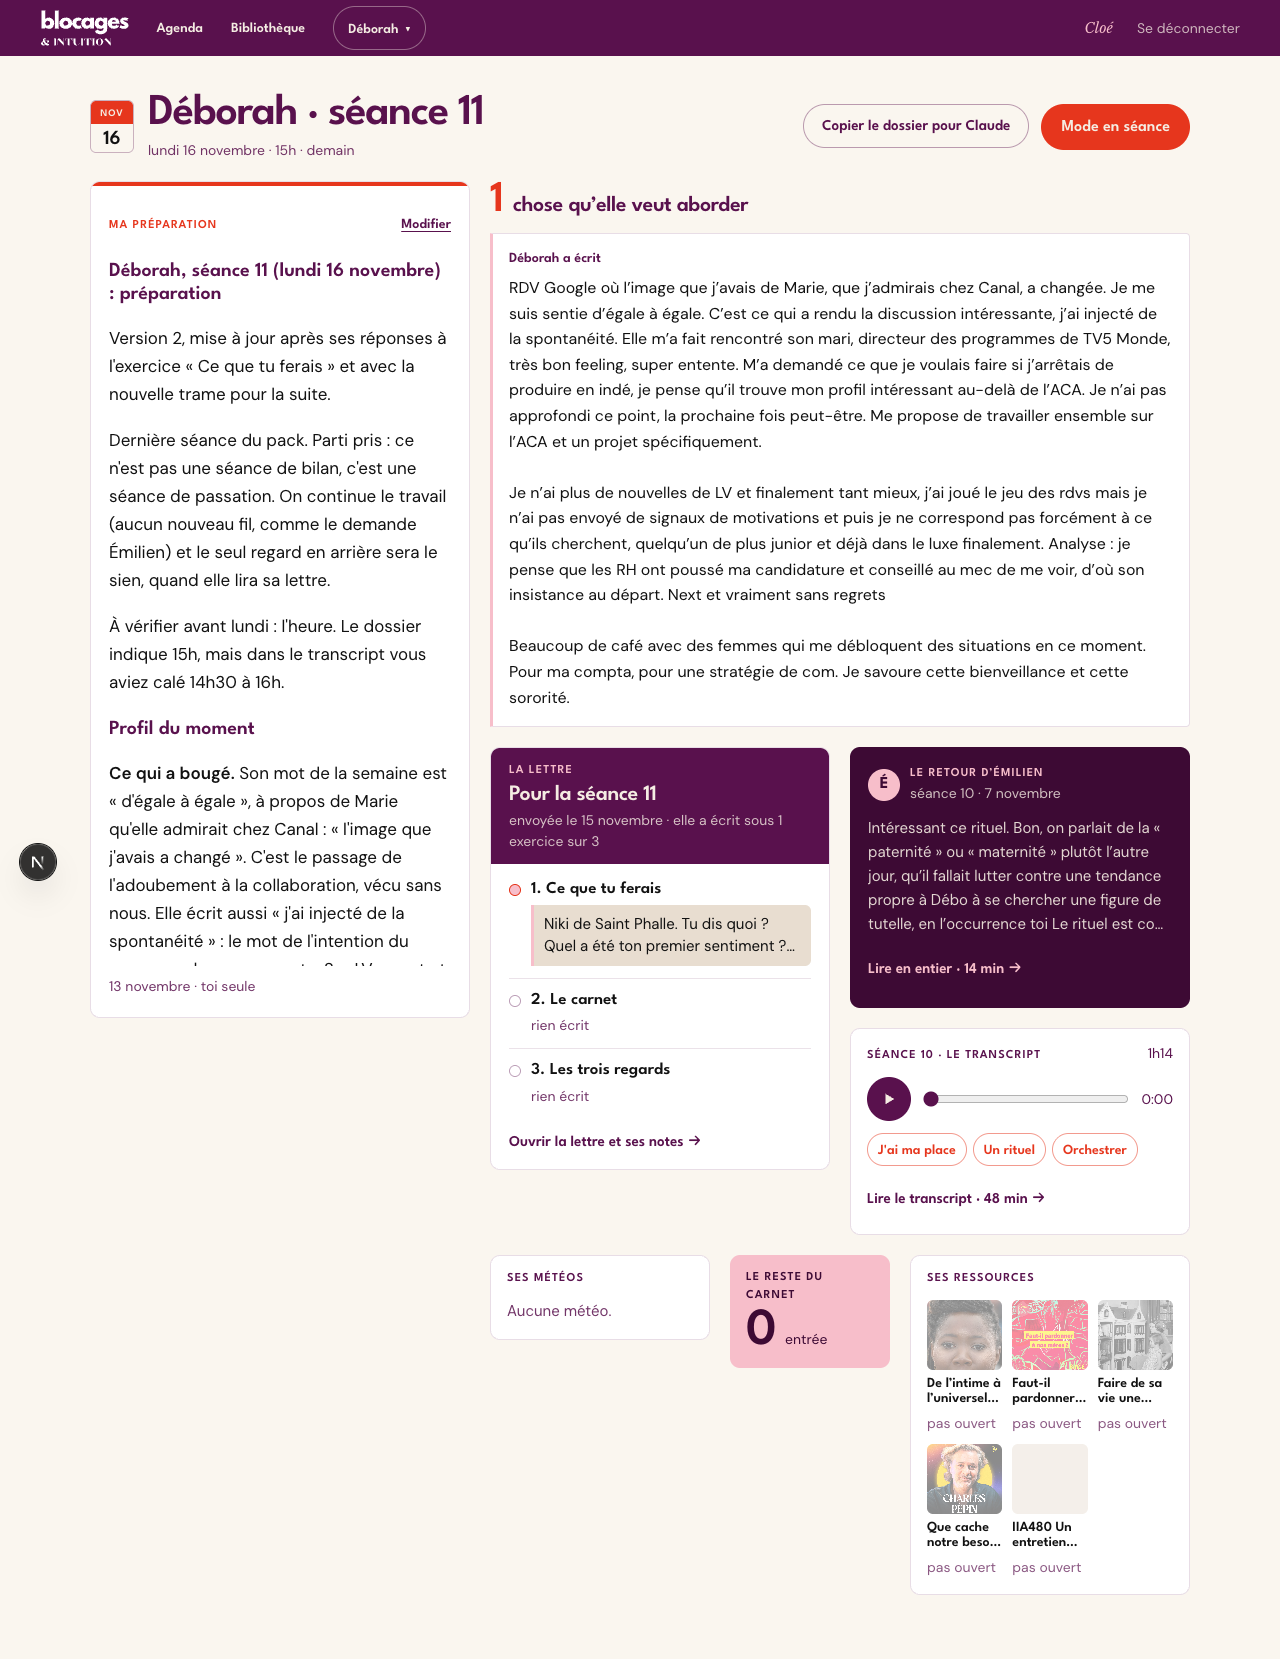
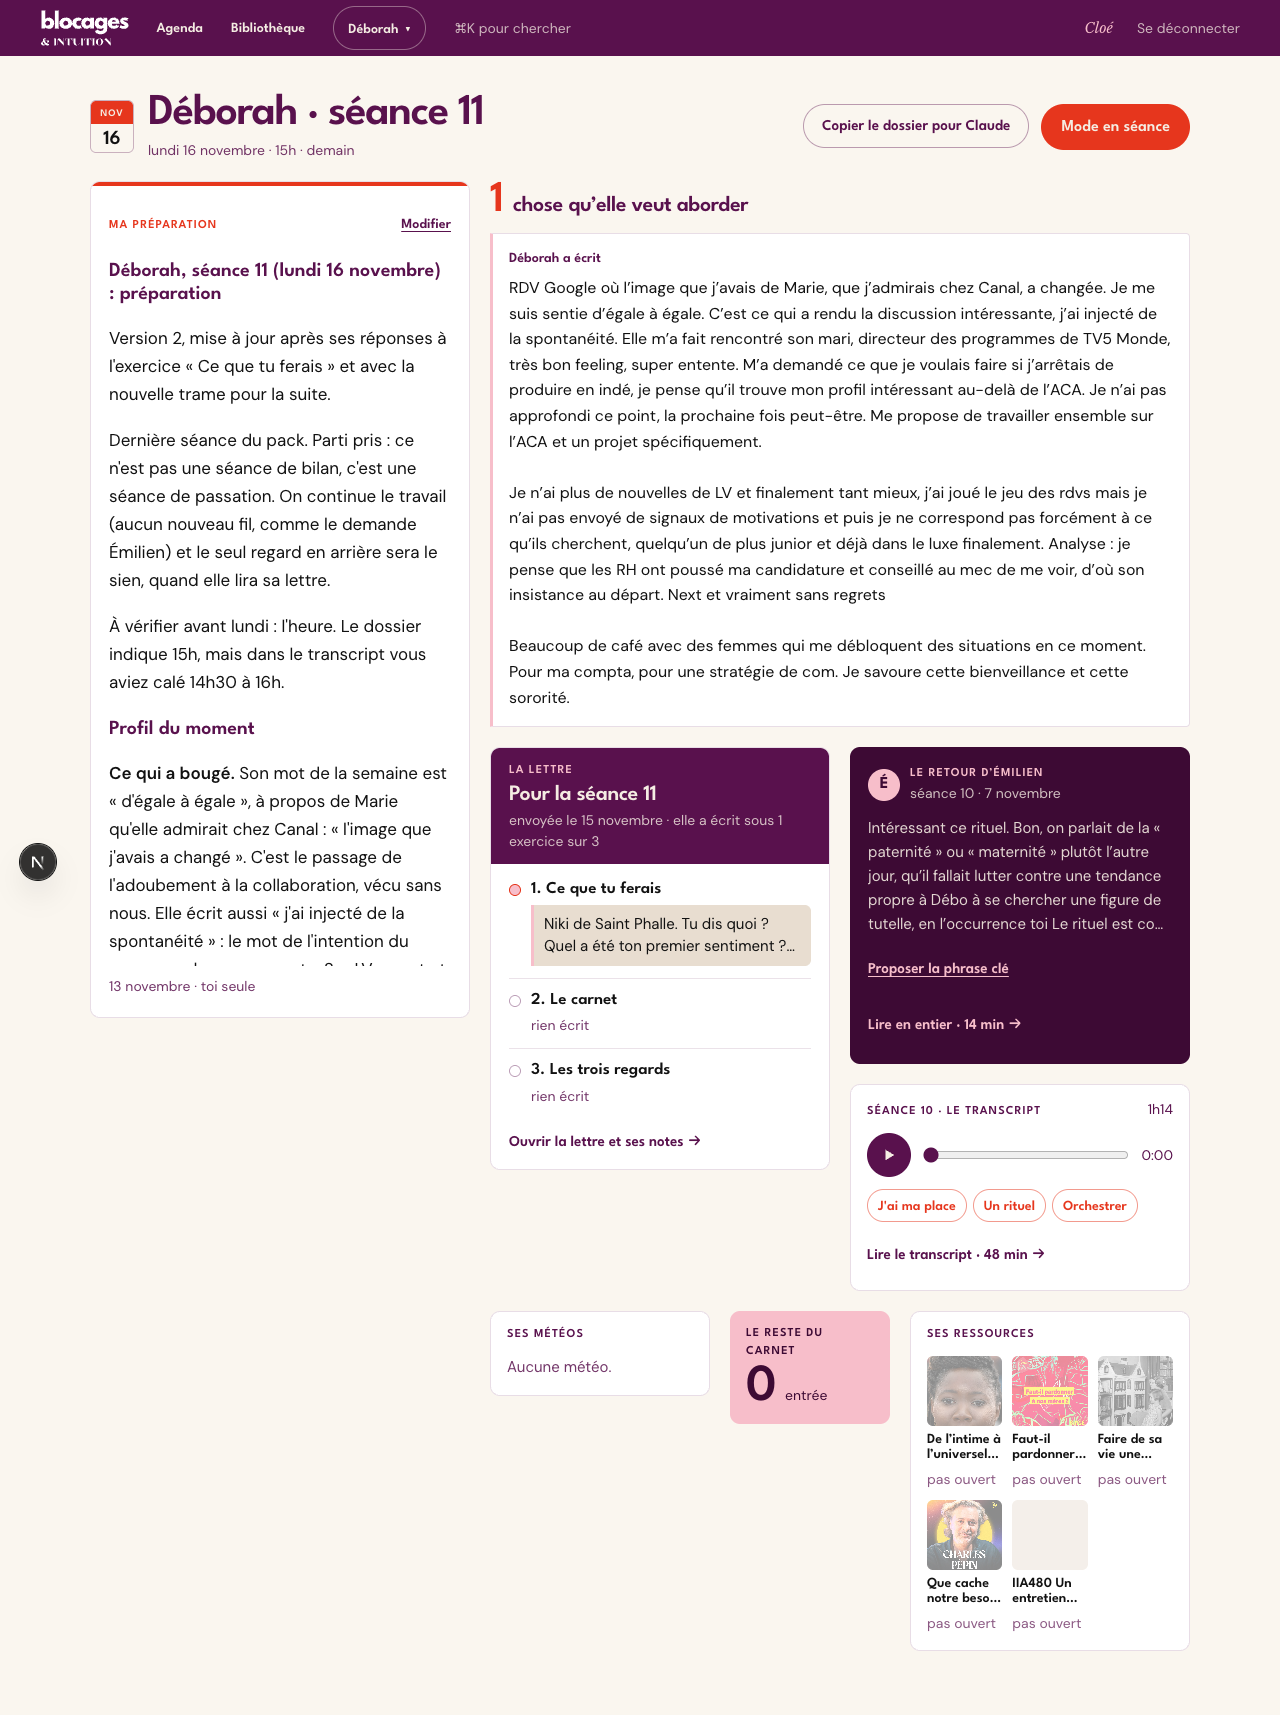
Temps 2, point 10 : bilan de cycle (page et PDF), corrections après captures, état à jour

diff --git a/src/app/(coach)/coach/clientes/[id]/bilan/page.tsx b/src/app/(coach)/coach/clientes/[id]/bilan/page.tsx
@@ -1,0 +1,74 @@
+import { notFound } from "next/navigation";
+import { PageCoach } from "@/components/coach/base";
+import { Barre } from "@/components/coach/Entete";
+import { exigerCoach } from "@/lib/auth";
+import { chargerBilan } from "@/lib/bilan";
+
+export const metadata = { title: "Bilan de cycle" };
+
+// Le bilan de fin de parcours, tel qu'il sera dans le PDF. Rien ne part vers elle : Cloé le télécharge et choisit.
+export default async function Bilan({ params }: PageProps<"/coach/clientes/[id]/bilan">) {
+  await exigerCoach();
+  const { id } = await params;
+  const b = await chargerBilan(id);
+  if (!b) notFound();
+  const stations = b.seances.flatMap((x) => (x.station ? [x.station] : []));
+  return (
+    <PageCoach>
+      <Barre retour={{ href: `/coach/clientes/${id}`, libelle: b.prenom }} cliente={b.prenom} />
+      <div className="mx-auto flex w-full max-w-3xl flex-col gap-5 px-[22px] pb-16 pt-7">
+        <div className="flex flex-wrap items-center justify-between gap-3">
+          <p className="m-0 text-[14px] text-violet">Rien ne part vers {b.prenom} : tu télécharges le PDF et tu choisis quand le lui donner.</p>
+          <a href={`/api/bilan/${id}`} className="bouton-rouge inline-flex items-center">
+            Télécharger le PDF
+          </a>
+        </div>
+        <article className="carte-blanche flex flex-col gap-4 px-6 py-7 md:px-10">
+          {b.periode ? <p className="m-0 font-italique text-[15px] italic text-violet">{b.periode}</p> : null}
+          <h1 className="m-0 font-titre text-[34px] font-semibold leading-none tracking-[-0.03em] text-violet">
+            {b.prenom}, {b.seances.length} séance{b.seances.length > 1 ? "s" : ""}
+          </h1>
+          {stations.length ? <p className="m-0 font-titre text-[17px] font-semibold text-rouge">{stations.join(" · ")}</p> : null}
+          {b.intention ? (
+            <section className="flex flex-col gap-1.5">
+              <h2 className="m-0 font-titre text-[20px] font-semibold text-violet">L’intention du départ</h2>
+              <p className="m-0 text-[16px] leading-[1.6]">{b.intention}</p>
+            </section>
+          ) : null}
+          <section className="flex flex-col gap-1.5">
+            <h2 className="m-0 font-titre text-[20px] font-semibold text-violet">Le chemin, séance après séance</h2>
+            {b.seances.map((x) => (
+              <p key={x.numero} className="m-0 text-[16px] leading-[1.6]">
+                <strong className="font-semibold">Séance {x.numero}</strong>
+                {x.date ? `, ${x.date}` : ""} : {x.mots.length ? x.mots.join(", ") : "sans mots posés"}
+                {x.station ? `. ${x.station}` : ""}
+              </p>
+            ))}
+          </section>
+          {b.lettres.length ? (
+            <section className="flex flex-col gap-1">
+              <h2 className="m-0 font-titre text-[20px] font-semibold text-violet">Les lettres</h2>
+              {b.lettres.map((l, i) => (
+                <p key={i} className="m-0 text-[16px]">
+                  {l.titre}
+                  {l.date ? <span className="text-violet">, {l.date}</span> : null}
+                </p>
+              ))}
+            </section>
+          ) : null}
+          {b.paroles.length ? (
+            <section className="flex flex-col gap-2">
+              <h2 className="m-0 font-titre text-[20px] font-semibold text-violet">Ce que tu as écrit</h2>
+              {b.paroles.map((p, i) => (
+                <div key={i} className="border-l-[3px] border-rose pl-3">
+                  {p.date ? <p className="m-0 text-[14px] text-violet">{p.date}</p> : null}
+                  <p className="m-0 whitespace-pre-line text-[16px] leading-[1.6]">{p.texte}</p>
+                </div>
+              ))}
+            </section>
+          ) : null}
+        </article>
+      </div>
+    </PageCoach>
+  );
+}

diff --git a/src/lib/bilan-pdf.tsx b/src/lib/bilan-pdf.tsx
@@ -1,0 +1,83 @@
+import path from "node:path";
+import { Document, Font, Page, renderToBuffer, StyleSheet, Text, View } from "@react-pdf/renderer";
+import type { Bilan } from "@/lib/bilan";
+
+// Le bilan en PDF : ivoire et Lora, comme le transcript et les notes d'Émilien.
+const fichier = (nom: string) => path.join(process.cwd(), "node_modules/@fontsource/lora/files", nom);
+Font.register({
+  family: "Lora",
+  fonts: [
+    { src: fichier("lora-latin-400-normal.woff") },
+    { src: fichier("lora-latin-400-italic.woff"), fontStyle: "italic" },
+    { src: fichier("lora-latin-600-normal.woff"), fontWeight: 600 },
+  ],
+});
+Font.registerHyphenationCallback((mot) => [mot]);
+
+const VIOLET = "#59114D";
+const ROUGE = "#E6361D";
+const s = StyleSheet.create({
+  page: { backgroundColor: "#FAF6EF", color: "#111111", fontFamily: "Lora", fontSize: 11, lineHeight: 1.6, paddingTop: 64, paddingBottom: 64, paddingHorizontal: 70 },
+  marque: { fontSize: 9, fontStyle: "italic", color: VIOLET, marginBottom: 26 },
+  periode: { fontSize: 11, fontStyle: "italic", color: VIOLET },
+  titre: { fontSize: 28, fontWeight: 600, lineHeight: 1.1, color: VIOLET, marginTop: 4 },
+  mots: { fontSize: 12, color: ROUGE, marginTop: 10, marginBottom: 26 },
+  section: { fontSize: 14, fontWeight: 600, color: VIOLET, marginTop: 22, marginBottom: 8 },
+  ligne: { marginBottom: 6 },
+  parole: { marginBottom: 10, paddingLeft: 10, borderLeftWidth: 2, borderLeftColor: "#F7BECA" },
+  date: { fontSize: 9, fontStyle: "italic", color: VIOLET },
+  numero: { position: "absolute", bottom: 32, left: 0, right: 0, textAlign: "center", fontSize: 8.5 },
+});
+
+export async function creerPdfBilan(b: Bilan) {
+  const stations = b.seances.flatMap((x) => (x.station ? [x.station] : []));
+  return renderToBuffer(
+    <Document title={`${b.prenom}, bilan de parcours`} author="Blocages & Intuition" language="fr">
+      <Page size="A4" style={s.page}>
+        <Text style={s.marque}>Blocages &amp; Intuition</Text>
+        {b.periode ? <Text style={s.periode}>{b.periode}</Text> : null}
+        <Text style={s.titre}>
+          {b.prenom}, {b.seances.length} séance{b.seances.length > 1 ? "s" : ""}
+        </Text>
+        {stations.length ? <Text style={s.mots}>{stations.join(" · ")}</Text> : null}
+        {b.intention ? (
+          <>
+            <Text style={s.section}>L’intention du départ</Text>
+            <Text>{b.intention}</Text>
+          </>
+        ) : null}
+        <Text style={s.section}>Le chemin, séance après séance</Text>
+        {b.seances.map((x) => (
+          <Text key={x.numero} style={s.ligne}>
+            Séance {x.numero}
+            {x.date ? `, ${x.date}` : ""} : {x.mots.length ? x.mots.join(", ") : "sans mots posés"}
+            {x.station ? `. ${x.station}` : ""}
+          </Text>
+        ))}
+        {b.lettres.length ? (
+          <>
+            <Text style={s.section}>Les lettres</Text>
+            {b.lettres.map((l, i) => (
+              <Text key={i} style={s.ligne}>
+                {l.titre}
+                {l.date ? `, ${l.date}` : ""}
+              </Text>
+            ))}
+          </>
+        ) : null}
+        {b.paroles.length ? (
+          <>
+            <Text style={s.section}>Ce que tu as écrit</Text>
+            {b.paroles.map((p, i) => (
+              <View key={i} style={s.parole} wrap={false}>
+                {p.date ? <Text style={s.date}>{p.date}</Text> : null}
+                <Text>{p.texte}</Text>
+              </View>
+            ))}
+          </>
+        ) : null}
+        <Text style={s.numero} render={({ pageNumber }) => `${pageNumber}`} fixed />
+      </Page>
+    </Document>,
+  );
+}

diff --git a/src/lib/bilan.ts b/src/lib/bilan.ts
@@ -1,0 +1,40 @@
+import "server-only";
+import { avantOuverture, jourEtMois, moisAnnee } from "@/lib/dates";
+import { debutDuParcours } from "@/lib/chemin";
+import { createClient } from "@/lib/supabase/server";
+import type { JournalEntree, Parcours, PratiquesSerie, Profile, Seance } from "@/lib/supabase/types";
+import { titrePropre } from "@/lib/textes";
+
+export type Bilan = {
+  prenom: string;
+  periode: string;
+  intention: string;
+  seances: { numero: number; date: string | null; mots: string[]; station: string | null }[];
+  lettres: { titre: string; date: string | null }[];
+  paroles: { date: string | null; texte: string }[];
+};
+
+// Le bilan de fin de cycle : chemin, mots, lettres, ce qu'elle a écrit. Rien n'est envoyé : Cloé le télécharge.
+export async function chargerBilan(clienteId: string): Promise<Bilan | null> {
+  const supabase = await createClient();
+  const { data: profil } = await supabase.from("profiles").select("*").eq("id", clienteId).maybeSingle<Profile>();
+  const { data: parcours } = await supabase.from("parcours").select("*").eq("cliente_id", clienteId).order("created_at", { ascending: false }).limit(1).maybeSingle<Parcours>();
+  if (!profil || !parcours) return null;
+  const [{ data: seances }, { data: lettres }, { data: carnet }] = await Promise.all([
+    supabase.from("seances").select("*").eq("parcours_id", parcours.id).eq("statut", "faite").order("numero").returns<Seance[]>(),
+    supabase.from("pratiques_series").select("titre, publiee_at").eq("parcours_id", parcours.id).not("publiee_at", "is", null).order("publiee_at").returns<Pick<PratiquesSerie, "titre" | "publiee_at">[]>(),
+    supabase.from("journal").select("date, contenu").eq("cliente_id", clienteId).order("date", { ascending: false }).limit(12).returns<Pick<JournalEntree, "date" | "contenu">[]>(),
+  ]);
+  const faites = seances ?? [];
+  const debut = debutDuParcours(parcours.date_debut, faites);
+  const derniere = faites.at(-1)?.date;
+  const date = (d: string | null | undefined) => (d && !avantOuverture(d) ? jourEtMois(d) : null);
+  return {
+    prenom: profil.prenom,
+    periode: [debut ? moisAnnee(debut) : null, derniere ? moisAnnee(derniere) : null].filter(Boolean).join(" à "),
+    intention: parcours.intention.trim(),
+    seances: faites.map((s) => ({ numero: s.numero, date: date(s.date), mots: s.mots_cles, station: s.station_validee })),
+    lettres: (lettres ?? []).map((l) => ({ titre: titrePropre(l.titre), date: date(l.publiee_at) })),
+    paroles: (carnet ?? []).filter((e) => e.contenu.trim() && e.contenu !== "(un vocal)").reverse().map((e) => ({ date: date(e.date), texte: e.contenu.trim() })),
+  };
+}

diff --git a/src/app/(coach)/coach/clientes/[id]/seances/[seanceId]/en-seance/page.tsx b/src/app/(coach)/coach/clientes/[id]/seances/[seanceId]/en-seance/page.tsx
@@ -31,8 +31,8 @@ export default async function EnSeance({ params }: PageProps<"/coach/clientes/[i
           Quitter le mode en séance
         </Link>
       </div>
-      <div className="mx-auto grid w-full max-w-[1180px] gap-6 px-[22px] pb-16 pt-6 lg:grid-cols-[minmax(0,1fr)_minmax(0,1.1fr)] lg:gap-10 lg:px-10">
-        <div className="flex flex-col gap-5">
+      <div className="mx-auto grid w-full max-w-[1180px] gap-6 px-[22px] pb-16 pt-6 lg:grid-cols-[minmax(0,1fr)_minmax(0,1.1fr)] lg:items-start lg:gap-10 lg:px-10">
+        <div className="flex flex-col gap-5 lg:sticky lg:top-4 lg:max-h-[calc(100vh-2rem)] lg:overflow-y-auto lg:pr-2">
           {aAborder.length ? (
             <section className="flex flex-col gap-2">
               <h2 className="surtitre m-0 text-rouge">À aborder</h2>
@@ -50,7 +50,9 @@ export default async function EnSeance({ params }: PageProps<"/coach/clientes/[i
             {d.preparation.trim() ? <TexteLecture className="text-[16px]">{d.preparation}</TexteLecture> : <p className="m-0 text-[15px] text-violet">Pas de préparation pour cette séance.</p>}
           </section>
         </div>
-        <NotesEnSeance seanceId={seanceId} initial={notes?.notes_seance ?? ""} />
+        <div className="lg:sticky lg:top-4">
+          <NotesEnSeance seanceId={seanceId} initial={notes?.notes_seance ?? ""} />
+        </div>
       </div>
     </PageCoach>
   );

diff --git a/src/app/(coach)/coach/clientes/[id]/page.tsx b/src/app/(coach)/coach/clientes/[id]/page.tsx
@@ -371,6 +371,15 @@ export default async function VueEquipe({ params }: PageProps<"/coach/clientes/[
       )}
 
       {estCoach ? (
+        <Link href={`/coach/clientes/${id}/bilan`} className="flex min-h-[56px] items-center gap-3 border-t border-[var(--filet-papier)] py-3.5">
+          <span className="flex min-w-0 flex-col gap-[3px]">
+            <span className="font-titre text-[18px] font-semibold leading-[1.1] text-encre">Bilan de cycle</span>
+            <span className="text-[14px] text-violet">chemin, mots, lettres, ce qu’elle a écrit, en PDF</span>
+          </span>
+          <span className="ml-auto shrink-0 font-titre text-[14px] font-semibold text-violet">Préparer</span>
+        </Link>
+      ) : null}
+      {estCoach ? (
         <Repli id="compte" titre="Compte" compte={`${profil.email} · ${parcours?.drive_folder_id ? "Drive relié" : "Drive non relié"}`}>
           <p className="m-0 text-[14px] leading-[1.6]">{parcours?.drive_folder_id ? `Dossier Drive : ${parcours.drive_folder_nom ?? parcours.drive_folder_id}` : "Pas encore de dossier Drive relié."}</p>
           <div className="flex flex-wrap items-center gap-x-[18px]">

diff --git a/src/app/api/bilan/[id]/route.ts b/src/app/api/bilan/[id]/route.ts
@@ -1,0 +1,15 @@
+import { chargerBilan } from "@/lib/bilan";
+import { creerPdfBilan } from "@/lib/bilan-pdf";
+import { getProfil } from "@/lib/supabase/server";
+
+// Le PDF du bilan, pour Cloé seule. Rien n'est envoyé à la cliente.
+export async function GET(_req: Request, { params }: { params: Promise<{ id: string }> }) {
+  const profil = await getProfil();
+  if (profil?.role !== "coach") return new Response("Réservé à Cloé.", { status: 403 });
+  const { id } = await params;
+  const bilan = await chargerBilan(id);
+  if (!bilan) return new Response("Introuvable.", { status: 404 });
+  const pdf = await creerPdfBilan(bilan);
+  const nom = bilan.prenom.normalize("NFD").replace(/[̀-ͯ]/g, "").replace(/[^A-Za-z0-9-]/g, "");
+  return new Response(new Uint8Array(pdf), { headers: { "Content-Type": "application/pdf", "Content-Disposition": `attachment; filename="bilan-${nom}.pdf"` } });
+}

diff --git a/next.config.ts b/next.config.ts
@@ -4,7 +4,7 @@ const nextConfig: NextConfig = {
   // Application entièrement personnalisée (session par cookie) : pas de cache de composants.
   cacheComponents: false,
   serverExternalPackages: ["@react-pdf/renderer"],
-  outputFileTracingIncludes: { "/api/transcription/deepgram": ["./node_modules/@fontsource/lora/files/lora-latin-*"] },
+  outputFileTracingIncludes: { "/api/transcription/deepgram": ["./node_modules/@fontsource/lora/files/lora-latin-*"], "/api/bilan/[id]": ["./node_modules/@fontsource/lora/files/lora-latin-*"] },
   experimental: {
     // Dépôt de PDF de transcript via action serveur (Vercel plafonne de toute façon à 4,5 Mo par requête).
     serverActions: { bodySizeLimit: "10mb" },

diff --git a/docs/EN-COURS.md b/docs/EN-COURS.md
@@ -277,17 +277,19 @@ Maquettes dans design/ecrans, elles priment pour le dessin : L-v3-avant-la-seanc
 ### Temps 2
 - [x] Ne rien coder : lire temps-2-dix-evolutions et proposer à Cloé un plan (docs/07-plan-temps-2.md, montré le 15 novembre)
 - Décision de Cloé (15 novembre) : « temps 2 fais tout dans l'ordre »
-  - [ ] Migration 0007 (résumés, notes en séance, épingles, échanges, vocaux) écrite et testée sur une base temporaire ; à appliquer après 0006, avec l'accord de Cloé
-  - [ ] 1. Résumé de séance
-  - [ ] 2. Chercher
-  - [ ] 3. Commande rapide
-  - [ ] 4. Mode en séance
-  - [ ] 5. Épingler une phrase
-  - [ ] 6. Cloé et Émilien, par séance (et 11, remarque d'Émilien sous un exercice)
-  - [ ] 7. Mots récurrents
-  - [ ] 8. Le fil
-  - [ ] 9. Vocaux de la cliente
-  - [ ] 10. Bilan de cycle
+  - [x] Migration 0007 (résumés, notes en séance, épingles, échanges, vocaux) écrite et testée sur une base temporaire : la cliente ne lit ni résumés ni épingles ni échanges, n'y écrit rien ; Émilien n'écrit pas au nom de Cloé et Cloé ne modifie pas ses messages ; une cliente ne dépose et ne lit que ses vocaux
+  - [ ] Migrations 0006 puis 0007 appliquées par Cloé dans SQL Editor (tant qu'elles ne le sont pas : rien ne casse, les écrans concernés restent vides ou disent que la migration manque)
+  - [x] 1. Résumé de séance : proposé avec les mots et la station par la même lecture du transcript (nouvelles transcriptions et bouton « proposer depuis le transcript »), table réservée à l'équipe, « Valider » ou « Corriger » par Cloé, affiché dans la vue équipe, « Avant la séance » et « dater et nommer ». À voir après 0007 et avec la clé Anthropic dans Vercel ; les 20 séances passées n'ont pas encore de résumé
+  - [x] 2. Chercher : sans accents, dans les transcripts, carnets, retours et lettres, une cliente (« Chercher chez elle ») ou toutes (« Chercher » dans l'en-tête), extraits surlignés, aucune migration ; vérifié (« maman » : 142 passages ; « attali » chez Déborah)
+  - [x] 3. Commande rapide ⌘K (ordinateur) : fiche, préparer la séance, dater et nommer, chercher chez elle, chercher partout ; affichée dans l'en-tête, non essayée au clavier dans les captures
+  - [x] 4. Mode en séance : préparation, à aborder, notes avec chrono (Entrée : nouvelle ligne datée), enregistrées au fil de l'eau avec la préparation (Cloé seule) ; notes relisibles dans la vue équipe (« Mes notes ») ; capture faite, enregistrement à vérifier après 0007
+  - [x] 5. Épingler une phrase : sélection dans la liseuse, « Épingler » ; dans « Avant la séance » (avec « retirer ») et le volet de sources de l'éditeur de lettre ; à vérifier après 0007
+  - [x] 6. Cloé et Émilien par séance : fil sous le retour (page séance de Cloé, page de lecture d'Émilien) ; 11. remarque d'Émilien sous chaque exercice dans la liseuse d'« Avant la séance » (« pour l'équipe ») ; à vérifier après 0007. Pas de marque dans l'agenda pour l'instant
+  - [x] 7. Mots qui reviennent (vue équipe) : mots posés sur les séances, présence séance par séance dans les transcripts ; vérifié
+  - [x] 8. Le fil (vue équipe, en plus des sections) : moments depuis l'ouverture (carnet, météos, lettres, retours, séances) ; vérifié
+  - [x] 9. Vocaux : bouton « Dire, plutôt qu'écrire » dans son carnet (une minute au plus), transcription Deepgram, entrée de carnet avec lecteur (« Tu as dit »), « a dit » côté équipe ; à essayer après 0007, depuis un téléphone, sur le compte de test
+  - [x] 10. Bilan de cycle : page de Cloé (« Préparer » dans la vue équipe) et PDF ivoire et Lora (période, stations, intention, mots par séance, lettres, ce qu'elle a écrit) ; rien n'est envoyé ; vérifié (PDF de Déborah généré)
+  - Captures du temps 2 dans design/captures-fluidite (t2-*). Compte de test « cloe » : une « Lettre d'essai » et une note d'essai créées pour les captures
 
 ### Où en est le chantier fluidité (15 novembre, fin de journée)
 - Temps 1 codé, vérifié en captures (20 images dans design/captures-fluidite, vue de Cloé et vue d'Émilien), poussé sur main.
